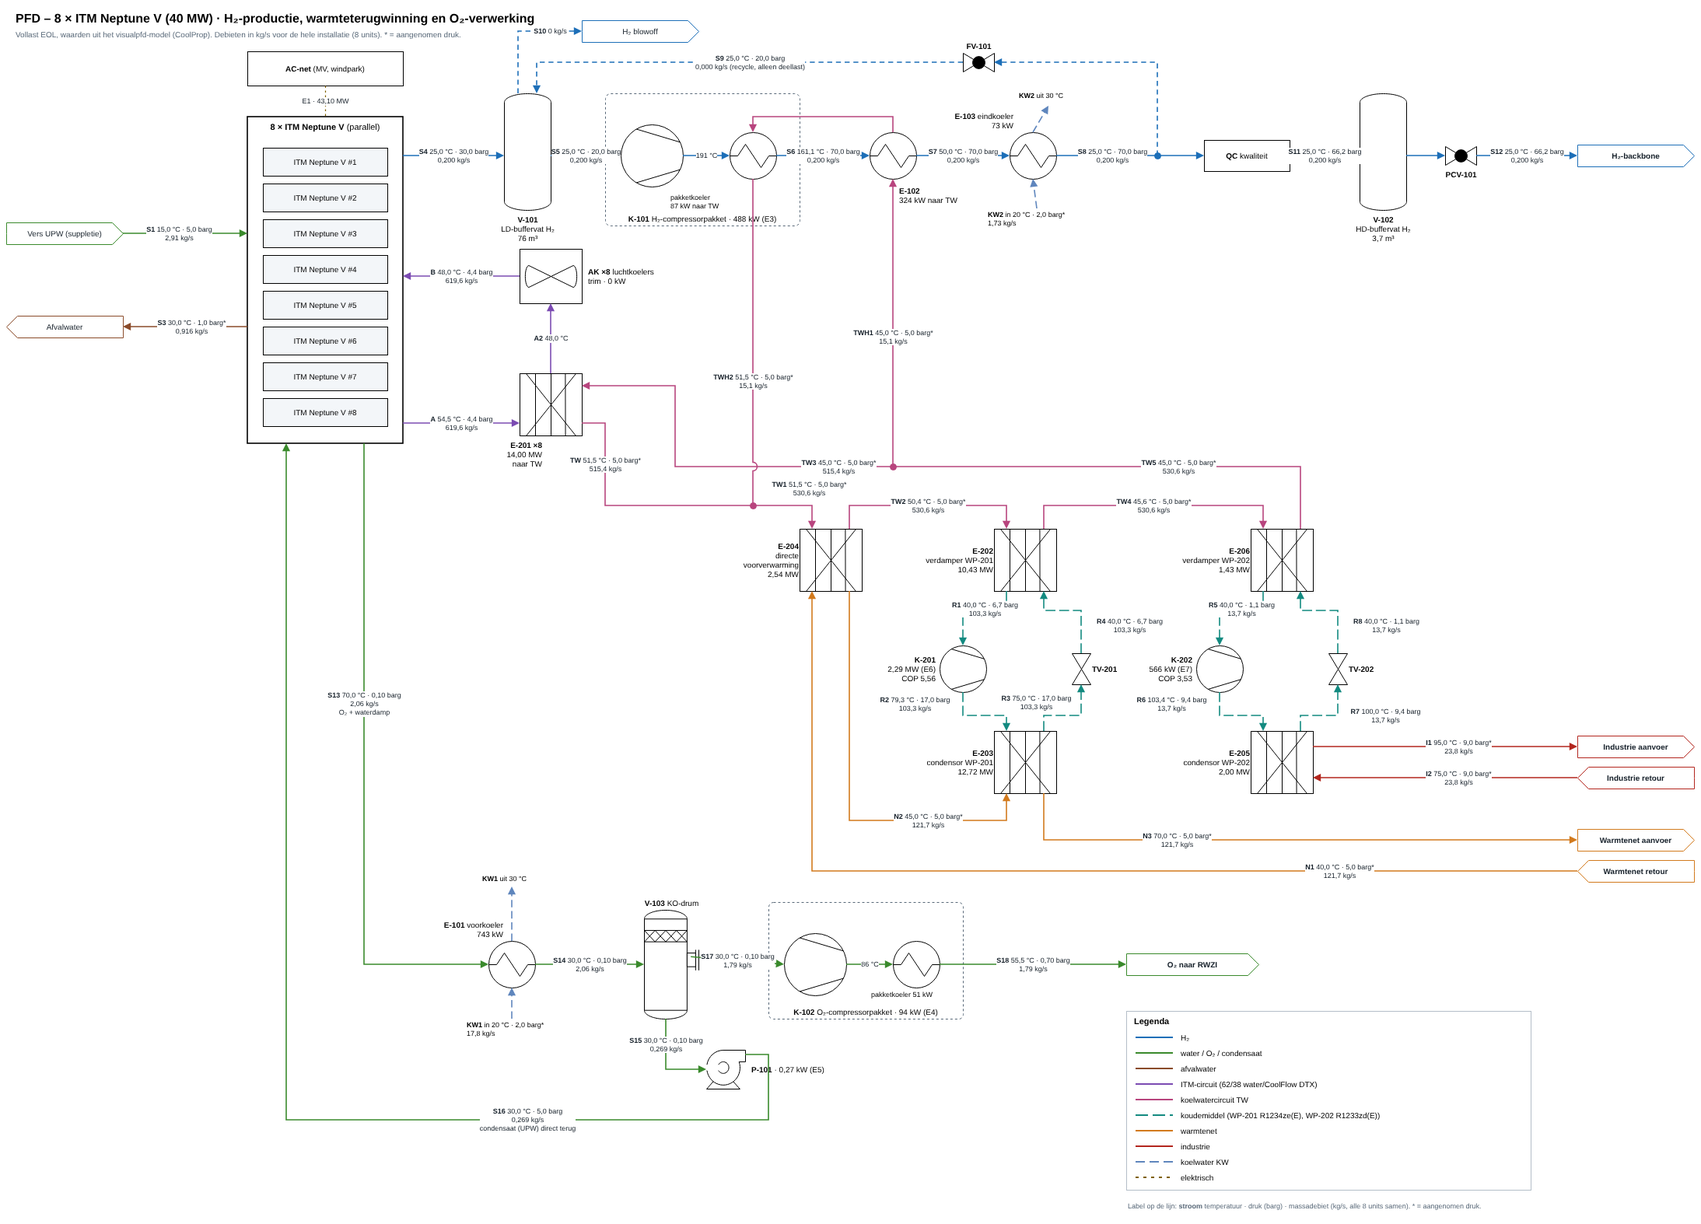
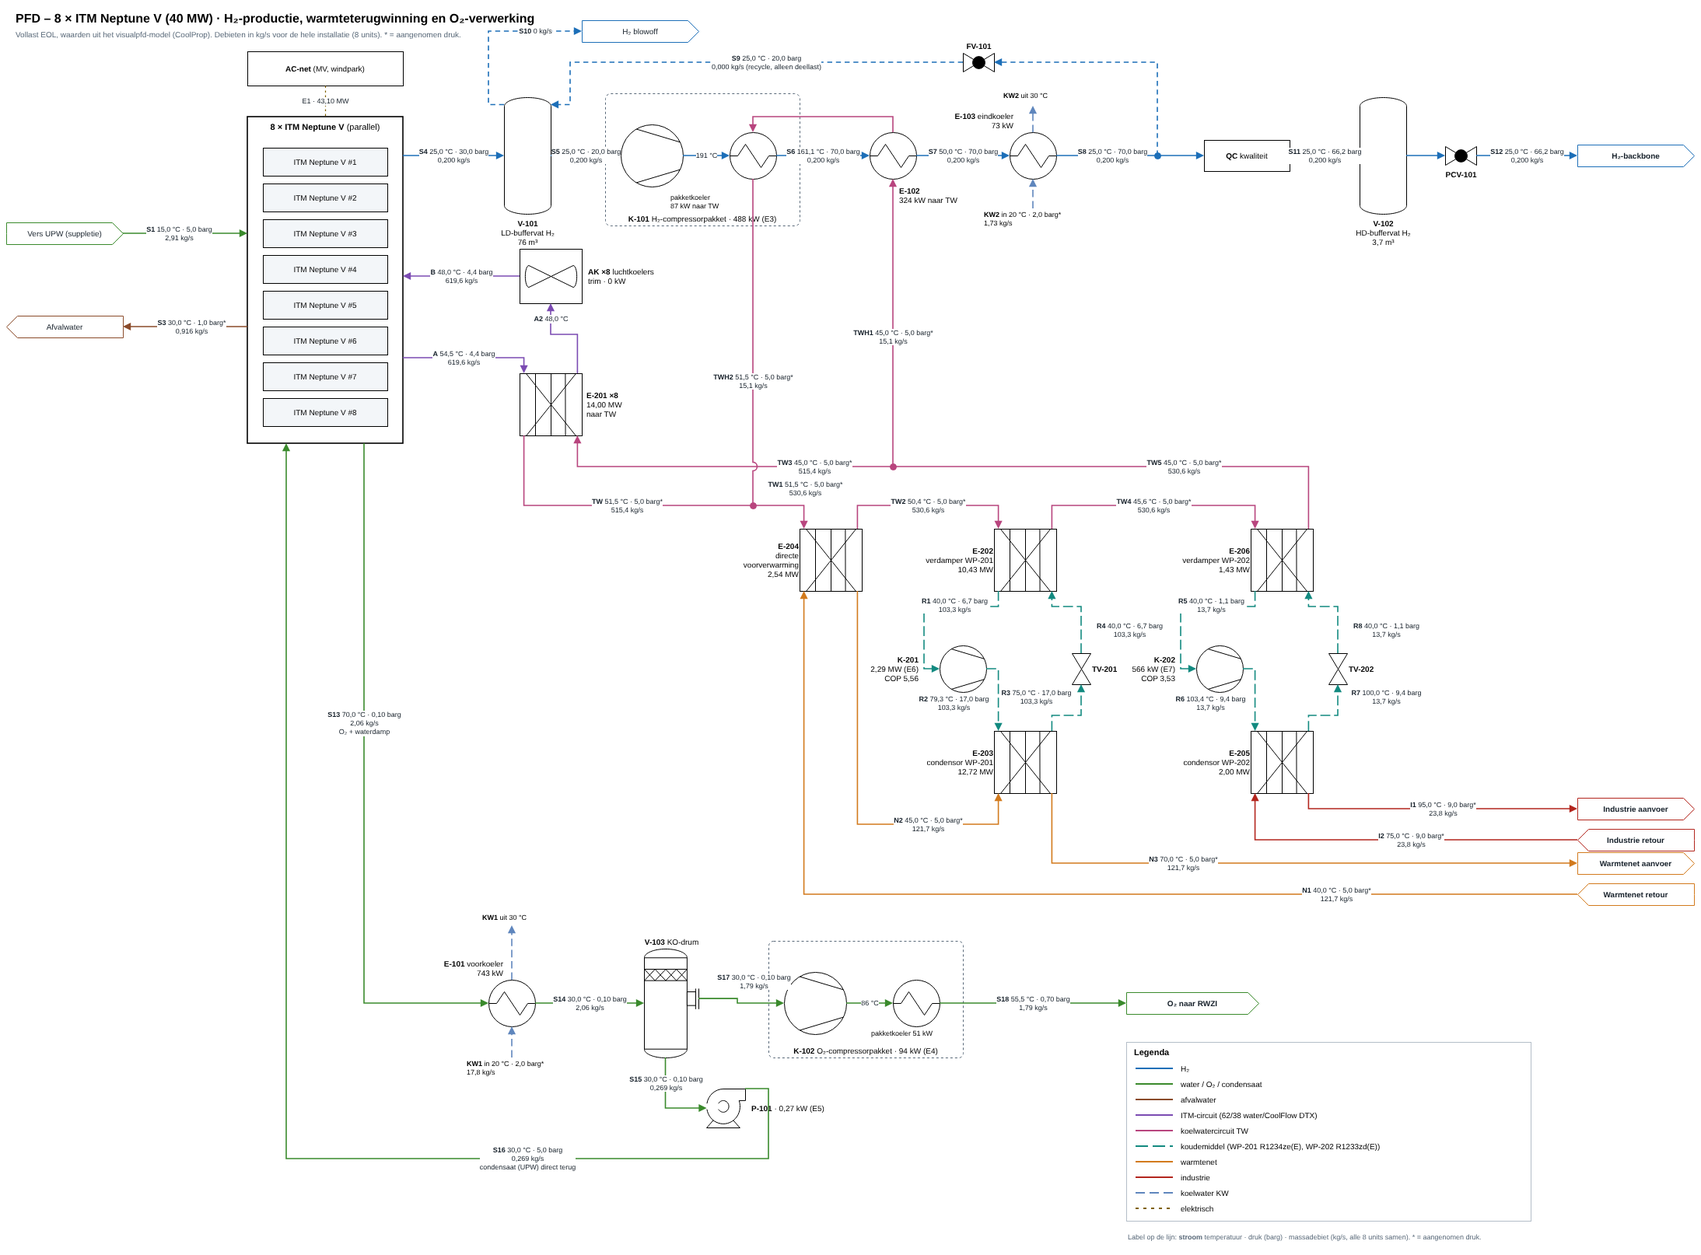
PFD draw.io: leidingen op de standaard connectoren van de iconen, met controle in het script
Claude-Session: https://claude.ai/code/session_01Rgoa6Uc8Lnki27xdVeqUX3

diff --git a/docs/pfd/maak_drawio.py b/docs/pfd/maak_drawio.py
@@ -86,6 +86,7 @@ def esc(s):
 
 def vertex(cid, x, y, w, h, style, value="", parent="1"):
     geo[cid] = (x, y, w, h)
+    STIJL[cid] = style
     cellen.append(f'<mxCell id="{cid}" value="{esc(value)}" style="{style}" vertex="1" parent="{parent}">'
                   f'<mxGeometry x="{x}" y="{y}" width="{w}" height="{h}" as="geometry"/></mxCell>')
     return cid
@@ -132,16 +133,52 @@ def tekst(x, y, w, h, value, extra="align=center;"):
 
 def knoop(cid, x, y, kleur):
     """T-stuk / verzamelpunt (gevulde stip)."""
-    return vertex(cid, x - 4, y - 4, 8, 8, f"ellipse;html=1;fillColor={kleur};strokeColor={kleur};", "")
+    return vertex(cid, x - 4, y - 4, 8, 8, f"ellipse;html=1;fillColor={kleur};strokeColor={kleur};"
+                  "points=[[0.5,0.5,0]];", "")
 
 
 WEST = set()                 # pijlen naar links (direction=west): draw.io draait hun poorten mee
 
 
+# Standaard connectiepunten van de draw.io-iconen (uit de stencils / shape-code van draw.io).
+RECHTHOEK = {(x, y) for x in (0, .25, .5, .75, 1) for y in (0, .25, .5, .75, 1) if x in (0, 1) or y in (0, 1)}
+CONN = {
+    "heat_exchanger_(plate)": {(.07, 0), (.93, 0), (.07, 1), (.93, 1)},
+    "shell_and_tube_heat_exchanger_1": {(.5, 0), (.5, 1), (0, .5), (1, .5), (.145, .145), (.145, .855),
+                                        (.855, .145), (.855, .855)},
+    "compressor,_vacuum_pump": {(0, .5), (1, .5)},
+    "air_cooler": {(.5, 0), (.5, 1), (0, .5), (1, .5), (1, .001), (1, .999), (0, .999), (0, .001)},
+    "centrifugal_pump_1": {(.43, 0), (.43, 1), (.01, .5), (.86, .5), (.125, .125), (0, 1), (1, 0), (.855, 1)},
+    "knock-out_drum": {(.393, 0), (.393, 1), (0, .5), (1, .458), (.775, .058), (.775, .942), (.005, .94),
+                       (.005, .06)},
+    "pressurized_vessel": {(.5, 0), (.5, 1), (0, .5), (1, .5), (.999, .063), (.999, .937), (.001, .937),
+                           (.001, .063)},
+    "valve": {(0, .5), (1, .5)},                     # pid2valves zonder aandrijving: leidingeinden
+    "arrows2.arrow": {(0, .5), (1, .5)},
+}
+STIJL = {}
+
+
+def toegestaan(cid):
+    st = STIJL[cid]
+    if "points=[[" in st:                              # eigen connectiepunten (ITM-blok, T-stukken)
+        lst = st.split("points=")[1].split(";")[0]
+        return {(float(a), float(b)) for a, b, *_ in __import__("json").loads(lst)}
+    for k, v in CONN.items():
+        if k in st:
+            return v
+    return RECHTHOEK
+
+
 def poort(cid, fx, fy):
+    assert (fx, fy) in toegestaan(cid), f"{cid}: ({fx}, {fy}) is geen connector van dit icoon"
     x, y, w, h = geo[cid]
     if cid in WEST:
         fx = 1 - fx
+    if "rotation=90" in STIJL[cid]:                  # 90° rechtsom om het midden
+        cx, cy_ = x + w / 2, y + h / 2
+        dx, dy = (fx - .5) * w, (fy - .5) * h
+        return (cx - dy, cy_ + dx)
     return (x + fx * w, y + fy * h)
 
 
@@ -149,8 +186,8 @@ def edge(src, sp, tgt, tp, pts, kleur, label="", seg=None, pos=0.5, pijlpunt=Tru
          lstyle=""):
     """Leiding van src (poort sp) naar tgt (poort tp) via punten pts. Het label komt op segment seg
     (index in de polyline; standaard het langste segment) op fractie pos van dat segment."""
-    a = poort(src, *sp) if sp is not None else None
-    b = poort(tgt, *tp) if tp is not None else None
+    a = poort(src, *sp)
+    b = poort(tgt, *tp)
     poly = [a] + list(pts) + [b]
     lens = [abs(q[0] - p[0]) + abs(q[1] - p[1]) for p, q in zip(poly, poly[1:])]
     L = sum(lens) or 1
@@ -184,8 +221,9 @@ tekst(30, 34, 1300, 20, f"Vollast EOL, waarden uit het visualpfd-model (CoolProp
       f"installatie ({N} units). * = aangenomen druk.", "align=left;fontSize=10;fontColor=#586878;")
 
 # ------------------------------------------------------------------ ITM-blok
+ITM_P = [[1, 50 / 420], [1, 205 / 420], [1, 310 / 420], [0, 150 / 420], [0, 270 / 420], [0.25, 1], [0.75, 1], [0.5, 0]]
 vertex("itm", 330, 150, 200, 420, "rounded=0;whiteSpace=wrap;html=1;fillColor=#ffffff;verticalAlign=top;fontSize=11;"
-       "strokeWidth=1.6;", "<b>8 × ITM Neptune V</b> (parallel)")
+       f"strokeWidth=1.6;points={ITM_P};".replace(" ", ""), "<b>8 × ITM Neptune V</b> (parallel)")
 for k in range(8):
     vertex(f"itm{k + 1}", 350, 190 + k * 46, 160, 36, "rounded=0;whiteSpace=wrap;html=1;fontSize=10;fillColor=#f3f6f9;",
            f"ITM Neptune V #{k + 1}", parent="1")
@@ -203,9 +241,9 @@ edge("itm", (0, 270 / 420), "t_s3", (1, 0.5), [], C["waste"],
 
 # ------------------------------------------------------------------ H2-lijn (y = 200)
 Y = 200
-shape("v101", "mxgraph.pid.vessels.pressurized_vessel", 660, 120, 60, 150,
+shape("v101", "mxgraph.pid.vessels.pressurized_vessel", 660, Y - 75, 60, 150,
       f"<b>V-101</b><br>LD-buffervat H₂<br>{nl(r['V_V101'], 0)} m³", "labelPosition=center;")
-edge("itm", (1, (Y - 150) / 420), "v101", (0, (Y - 120) / 150), [], C["h2"],
+edge("itm", (1, 50 / 420), "v101", (0, 0.5), [], C["h2"],
      lab("S4", i.T_H2, i.P_H2_ITM, kgs(i.m_H2)))
 
 vertex("pk101", 790, 120, 250, 170, "rounded=1;arcSize=4;whiteSpace=wrap;html=1;dashed=1;fillColor=none;"
@@ -214,7 +252,7 @@ vertex("pk101", 790, 120, 250, 170, "rounded=1;arcSize=4;whiteSpace=wrap;html=1;
 compressor("k101", 810, Y - 40, 80, "")
 buis("pkk101", 950, Y - 30, "")
 tekst(872, 244, 100, 30, f"pakketkoeler<br>{MW(r['Q_pak_K101'] * N)} naar TW", "fontSize=9;")
-edge("v101", (1, (Y - 120) / 150), "k101", (0, 0.5), [], C["h2"], lab("S5", i.T_H2, i.P_V101_min, kgs(r["m_S5"])))
+edge("v101", (1, 0.5), "k101", (0, 0.5), [], C["h2"], lab("S5", i.T_H2, i.P_V101_min, kgs(r["m_S5"])))
 edge("k101", (1, 0.5), "pkk101", (0, 0.5), [], C["h2"], f"{nl(r['T_uit_K101'], 0)} °C")
 
 buis("e102", 1130, Y - 30, "")
@@ -227,12 +265,12 @@ edge("e103", (1, 0.5), "j_s9", (0.5, 0.5), [], C["h2"], lab("S8", i.T_E103_uit, 
      pijlpunt=False, pos=0.55)
 vertex("qc", 1560, Y - 20, 110, 40, "rounded=0;whiteSpace=wrap;html=1;fontSize=10;", "<b>QC</b> kwaliteit")
 edge("j_s9", (0.5, 0.5), "qc", (0, 0.5), [], C["h2"])
-shape("v102", "mxgraph.pid.vessels.pressurized_vessel", 1760, 120, 60, 150,
+shape("v102", "mxgraph.pid.vessels.pressurized_vessel", 1760, Y - 75, 60, 150,
       f"<b>V-102</b><br>HD-buffervat H₂<br>{nl(r['V_V102'], 1)} m³")
-edge("qc", (1, 0.5), "v102", (0, (Y - 120) / 150), [], C["h2"],
+edge("qc", (1, 0.5), "v102", (0, 0.5), [], C["h2"],
      lab("S11", i.T_E103_uit, i.P_backbone, kgs(r["m_backbone"])))
 klep("pcv101", 1870, Y - 12, "<b>PCV-101</b>", soort="globe")
-edge("v102", (1, (Y - 120) / 150), "pcv101", (0, 0.5), [], C["h2"])
+edge("v102", (1, 0.5), "pcv101", (0, 0.5), [], C["h2"])
 pijl("t_s12", 2040, Y - 14, 150, "<b>H₂-backbone</b>", C["h2"])
 edge("pcv101", (1, 0.5), "t_s12", (0, 0.5), [], C["h2"], lab("S12", i.T_E103_uit, i.P_backbone, kgs(r["m_backbone"])))
 
@@ -240,16 +278,17 @@ edge("pcv101", (1, 0.5), "t_s12", (0, 0.5), [], C["h2"], lab("S12", i.T_E103_uit
 klep("fv101", 1250, 68, "<b>FV-101</b>", soort="globe", extra=LBL_T)
 edge("j_s9", (0.5, 0.5), "fv101", (1, 0.5), [(1500, 80)], C["h2"], pijlpunt=True,
      stijl="dashed=1;dashPattern=4 3;")
-edge("fv101", (0, 0.5), "v101", (0.7, 0), [(702, 80)], C["h2"],
+edge("fv101", (0, 0.5), "v101", (0.999, 0.063), [(745, 80), (745, Y - 75 + 0.063 * 150)], C["h2"],
      lab("S9", i.T_E103_uit, i.P_V101_min, kgs(r["m_S9"])) + " (recycle, alleen deellast)", seg=0,
      stijl="dashed=1;dashPattern=4 3;")
 pijl("t_s10", 760, 26, 150, "H₂ blowoff", C["h2"])
-edge("v101", (0.3, 0), "t_s10", (0, 0.5), [(678, 40)], C["h2"], "<b>S10</b> 0 kg/s", seg=1,
+edge("v101", (0.001, 0.063), "t_s10", (0, 0.5), [(640, Y - 75 + 0.063 * 150), (640, 40)], C["h2"],
+     "<b>S10</b> 0 kg/s", seg=2,
      stijl="dashed=1;dashPattern=4 3;")
 
 # koelwater E-103
-tekst(1280, 268, 130, 26, f"<b>KW2</b> in 20 °C · {nl(P_KW, 1)} barg*<br>{kgs(r['m_kw_E103'])}", "fontSize=9;")
-tekst(1320, 110, 80, 26, "<b>KW2</b> uit 30 °C", "fontSize=9;")
+tekst(1275, 268, 130, 26, f"<b>KW2</b> in 20 °C · {nl(P_KW, 1)} barg*<br>{kgs(r['m_kw_E103'])}", "fontSize=9;")
+tekst(1300, 110, 80, 26, "<b>KW2</b> uit 30 °C", "fontSize=9;")
 edge(list(geo)[-2], (0.5, 0), "e103", (0.5, 1), [], C["kw"], stijl=KW)
 edge("e103", (0.5, 0), list(geo)[-1], (0.5, 1), [], C["kw"], stijl=KW)
 
@@ -257,12 +296,13 @@ edge("e103", (0.5, 0), list(geo)[-1], (0.5, 1), [], C["kw"], stijl=KW)
 YE = 480                     # bovenkant E-201
 shape("ak", "mxgraph.pid.misc.air_cooler", 680, 320, 80, 70,
       f"<b>AK ×8</b> luchtkoelers<br>trim · {MW(max(0.0, r['Q_AK']))}", LBL_R + "spacingLeft=6;")
-plaat("e201", 680, YE, f"<b>E-201 ×8</b><br>{MW(r['Q_E201'])}<br>naar TW",
-      extra="labelPosition=left;verticalLabelPosition=bottom;align=right;verticalAlign=top;spacingRight=-30;")
-edge("itm", (1, (YE + 64 - 150) / 420), "e201", (0, 0.8), [], C["kc"],
-     lab("A", i.T_kc_uit, i.P_kc, kgs(r["m_kc_unit"])))
-edge("e201", (0.5, 0), "ak", (0.5, 1), [], C["kc"], f"<b>A2</b> {nl(r['T_kc_naE201'], 1)} °C", lx=0, ly=0)
-edge("ak", (0, 0.5), "itm", (1, (355 - 150) / 420), [], C["kc"],
+plaat("e201", 680, YE, f"<b>E-201 ×8</b><br>{MW(r['Q_E201'])}<br>naar TW", extra=LBL_R + "spacingLeft=4;")
+PL, PR = 0.07 * 80, 0.93 * 80          # x-positie van de hoekpoorten van een platenwisselaar (80 breed)
+edge("itm", (1, 310 / 420), "e201", (0.07, 0), [(680 + PL, 460)], C["kc"],
+     lab("A", i.T_kc_uit, i.P_kc, kgs(r["m_kc_unit"])), seg=0)
+edge("e201", (0.93, 0), "ak", (0.5, 1), [(680 + PR, 430), (720, 430)], C["kc"],
+     f"<b>A2</b> {nl(r['T_kc_naE201'], 1)} °C", seg=2)
+edge("ak", (0, 0.5), "itm", (1, 205 / 420), [], C["kc"],
      lab("B", i.T_kc_retour, i.P_kc, kgs(r["m_kc_unit"])))
 
 # ------------------------------------------------------------------ warmteterugwinning (midden)
@@ -276,17 +316,17 @@ plaat("e206", X206, YH, f"<b>E-206</b><br>verdamper WP-202<br>{MW(r['Q_L2'])}")
 knoop("j_twa", 980, Y_AAN, C["tw"])   # samenkomst aanvoer (E-201's + H2-koelers)
 knoop("j_twr", 1160, Y_RET, C["tw"])  # aftakking retour naar H2-koelers
 # E-201 → aanvoer
-edge("e201", (1, 0.8), "j_twa", (0.5, 0.5), [(790, YE + 64), (790, Y_AAN)], C["tw"],
-     lab("TW", r["T_tw_a"], P_TW, kgs(tw_tot - tw_h2, False), ster=True), seg=1, pijlpunt=False)
-edge("j_twa", (0.5, 0.5), "e204", (0.2, 0), [(X204 + 16, Y_AAN)], C["tw"],
+edge("e201", (0.07, 1), "j_twa", (0.5, 0.5), [(680 + PL, Y_AAN)], C["tw"],
+     lab("TW", r["T_tw_a"], P_TW, kgs(tw_tot - tw_h2, False), ster=True), seg=1, pos=0.45, pijlpunt=False)
+edge("j_twa", (0.5, 0.5), "e204", (0.07, 0), [(X204 + PL, Y_AAN)], C["tw"],
      lab("TW1", r["T_tw_a"], P_TW, kgs(tw_tot, False), ster=True), seg=0, pos=0.5, lx=34, ly=-22)
-edge("e204", (0.8, 0), "e202", (0.2, 0), [(X204 + 64, Y_AAN), (X202 + 16, Y_AAN)], C["tw"],
+edge("e204", (0.93, 0), "e202", (0.07, 0), [(X204 + PR, Y_AAN), (X202 + PL, Y_AAN)], C["tw"],
      lab("TW2", r["T_tw_tussen"], P_TW, kgs(tw_tot, False), ster=True), seg=1)
-edge("e202", (0.8, 0), "e206", (0.2, 0), [(X202 + 64, Y_AAN), (X206 + 16, Y_AAN)], C["tw"],
+edge("e202", (0.93, 0), "e206", (0.07, 0), [(X202 + PR, Y_AAN), (X206 + PL, Y_AAN)], C["tw"],
      lab("TW4", r["T_tw_naE202"], P_TW, kgs(tw_tot, False), ster=True), seg=1)
-edge("e206", (0.8, 0), "j_twr", (0.5, 0.5), [(X206 + 64, Y_RET)], C["tw"],
+edge("e206", (0.93, 0), "j_twr", (0.5, 0.5), [(X206 + PR, Y_RET)], C["tw"],
      lab("TW5", r["T_tw_r"], P_TW, kgs(tw_tot, False), ster=True), seg=1, pos=0.3, pijlpunt=False)
-edge("j_twr", (0.5, 0.5), "e201", (1, 0.2), [(880, Y_RET), (880, YE + 16)], C["tw"],
+edge("j_twr", (0.5, 0.5), "e201", (0.93, 1), [(680 + PR, Y_RET)], C["tw"],
      lab("TW3", r["T_tw_r"], P_TW, kgs(tw_tot - tw_h2, False), ster=True), seg=0, pos=0.25)
 # aftakking naar de H2-koelers: retour → E-102 → pakketkoeler K-101 → aanvoer
 edge("j_twr", (0.5, 0.5), "e102", (0.5, 1), [], C["tw"],
@@ -299,57 +339,57 @@ edge("pkk101", (0.5, 1), "j_twa", (0.5, 0.5), [], C["tw"],
 YC, YK = 940, 830            # bovenkant condensors, bovenkant compressoren
 plaat("e203", X202, YC, f"<b>E-203</b><br>condensor WP-201<br>{MW(r['Q_H'])}")
 compressor("k201", X202 - 70, YK, 60, f"<b>K-201</b><br>{MW(r['W_K201'])} (E6)<br>COP {nl(r['COP'], 2)}",
-           extra=LBL_L + "spacingRight=4;")
+           extra=LBL_L + "spacingRight=26;")
 klep("tv201", X202 + 92, YK + 18, "", extra="rotation=90;")
 tekst(X202 + 124, YK + 20, 50, 20, "<b>TV-201</b>", "align=left;")
 f1 = f"{nl(m_ref1, 1)} kg/s"
-edge("e202", (0.2, 1), "k201", (0.5, 0), [(X202 + 16, YH + 105), (X202 - 40, YH + 105)], C["ref"],
-     lab("R1", cy["T_evap"], cy["P_evap_bar"] - 1.01325, f1), seg=1, stijl=REF, lx=0, ly=-2)
-edge("k201", (0.5, 1), "e203", (0.2, 0), [(X202 - 40, YC - 20), (X202 + 16, YC - 20)], C["ref"],
-     lab("R2", cy["T_pers"], cy["P_cond_bar"] - 1.01325, f1), seg=0, stijl=REF, lx=-62)
-edge("e203", (0.8, 0), "tv201", (1, 0.5), [(X202 + 64, YC - 20), (X202 + 112, YC - 20)], C["ref"],
+edge("e202", (0.07, 1), "k201", (0, 0.5), [(X202 + PL, YH + 100), (X202 - 90, YH + 100), (X202 - 90, YK + 30)],
+     C["ref"], lab("R1", cy["T_evap"], cy["P_evap_bar"] - 1.01325, f1), seg=1, pos=0.6, stijl=REF, ly=-2)
+edge("k201", (1, 0.5), "e203", (0.07, 0), [(X202 + PL, YK + 30)], C["ref"],
+     lab("R2", cy["T_pers"], cy["P_cond_bar"] - 1.01325, f1), seg=1, pos=0.55, stijl=REF, lx=-58)
+edge("e203", (0.93, 0), "tv201", (1, 0.5), [(X202 + PR, YC - 20), (X202 + 112, YC - 20)], C["ref"],
      lab("R3", cy["T_cond"], cy["P_cond_bar"] - 1.01325, f1), seg=2, pos=0.6, stijl=REF, lx=-58)
-edge("tv201", (0, 0.5), "e202", (0.8, 1), [(X202 + 112, YH + 105), (X202 + 64, YH + 105)], C["ref"],
+edge("tv201", (0, 0.5), "e202", (0.93, 1), [(X202 + 112, YH + 100), (X202 + PR, YH + 100)], C["ref"],
      lab("R4", cy["T_evap"], cy["P_evap_bar"] - 1.01325, f1), seg=0, stijl=REF, lx=62)
 
 # WP-202 (industrie)
 plaat("e205", X206, YC, f"<b>E-205</b><br>condensor WP-202<br>{MW(r['Q_E205'])}")
 compressor("k202", X206 - 70, YK, 60, f"<b>K-202</b><br>{MW(r['W_K202'])} (E7)<br>COP {nl(r['COP2'], 2)}",
-           extra=LBL_L + "spacingRight=4;")
+           extra=LBL_L + "spacingRight=26;")
 klep("tv202", X206 + 92, YK + 18, "", extra="rotation=90;")
 tekst(X206 + 124, YK + 20, 50, 20, "<b>TV-202</b>", "align=left;")
 f2 = f"{nl(m_ref2, 1)} kg/s"
-edge("e206", (0.2, 1), "k202", (0.5, 0), [(X206 + 16, YH + 105), (X206 - 40, YH + 105)], C["ref"],
-     lab("R5", cy2["T_evap"], cy2["P_evap_bar"] - 1.01325, f2), seg=1, stijl=REF, ly=-2)
-edge("k202", (0.5, 1), "e205", (0.2, 0), [(X206 - 40, YC - 20), (X206 + 16, YC - 20)], C["ref"],
-     lab("R6", cy2["T_pers"], cy2["P_cond_bar"] - 1.01325, f2), seg=0, stijl=REF, lx=-62)
-edge("e205", (0.8, 0), "tv202", (1, 0.5), [(X206 + 64, YC - 20), (X206 + 112, YC - 20)], C["ref"],
-     lab("R7", cy2["T_cond"], cy2["P_cond_bar"] - 1.01325, f2), seg=2, pos=0.3, stijl=REF, lx=62)
-edge("tv202", (0, 0.5), "e206", (0.8, 1), [(X206 + 112, YH + 105), (X206 + 64, YH + 105)], C["ref"],
+edge("e206", (0.07, 1), "k202", (0, 0.5), [(X206 + PL, YH + 100), (X206 - 90, YH + 100), (X206 - 90, YK + 30)],
+     C["ref"], lab("R5", cy2["T_evap"], cy2["P_evap_bar"] - 1.01325, f2), seg=1, pos=0.6, stijl=REF, ly=-2)
+edge("k202", (1, 0.5), "e205", (0.07, 0), [(X206 + PL, YK + 30)], C["ref"],
+     lab("R6", cy2["T_pers"], cy2["P_cond_bar"] - 1.01325, f2), seg=1, pos=0.55, stijl=REF, lx=-58)
+edge("e205", (0.93, 0), "tv202", (1, 0.5), [(X206 + PR, YC - 20), (X206 + 112, YC - 20)], C["ref"],
+     lab("R7", cy2["T_cond"], cy2["P_cond_bar"] - 1.01325, f2), seg=2, pos=0.6, stijl=REF, lx=62)
+edge("tv202", (0, 0.5), "e206", (0.93, 1), [(X206 + 112, YH + 100), (X206 + PR, YH + 100)], C["ref"],
      lab("R8", cy2["T_evap"], cy2["P_evap_bar"] - 1.01325, f2), seg=0, stijl=REF, lx=62)
 
 # warmtenet: retour → E-204 → E-203 → aanvoer
 XT = 2040                    # rechterrand: aansluitingen
-Y_NA, Y_NR = 1080, 1120
+Y_NA, Y_NR = 1110, 1150
 pijl("t_na", XT, Y_NA - 14, 150, "<b>Warmtenet aanvoer</b>", C["net"])
 pijl("t_nr", XT, Y_NR - 14, 150, "<b>Warmtenet retour</b>", C["net"], links=True)
-edge("t_nr", (0, 0.5), "e204", (0.2, 1), [(X204 + 16, Y_NR)], C["net"],
+edge("t_nr", (0, 0.5), "e204", (0.07, 1), [(X204 + PL, Y_NR)], C["net"],
      lab("N1", i.T_net_retour, P_NET, kgs(net, False), ster=True), seg=0, pos=0.3)
-edge("e204", (0.8, 1), "e203", (0.2, 1), [(X204 + 64, YC + 115), (X202 + 16, YC + 115)], C["net"],
+edge("e204", (0.93, 1), "e203", (0.07, 1), [(X204 + PR, YC + 120), (X202 + PL, YC + 120)], C["net"],
      lab("N2", r["T_E204"], P_NET, kgs(net, False), ster=True), seg=1)
-edge("e203", (0.8, 1), "t_na", (0, 0.5), [(X202 + 64, Y_NA)], C["net"],
+edge("e203", (0.93, 1), "t_na", (0, 0.5), [(X202 + PR, Y_NA)], C["net"],
      lab("N3", r["T_aanvoer"], P_NET, kgs(net, False), ster=True), seg=1, pos=0.25)
 
 # industrie via E-205
-pijl("t_ia", XT, YC + 6, 150, "<b>Industrie aanvoer</b>", C["ind"])
-pijl("t_ir", XT, YC + 46, 150, "<b>Industrie retour</b>", C["ind"], links=True)
-edge("e205", (1, 0.25), "t_ia", (0, 0.5), [], C["ind"],
-     lab("I1", i.T_ind_aanvoer, P_IND, kgs(ind, False), ster=True), pos=0.55)
-edge("t_ir", (0, 0.5), "e205", (1, 0.75), [], C["ind"],
-     lab("I2", i.T_ind_retour, P_IND, kgs(ind, False), ster=True), pos=0.45, ly=0)
+pijl("t_ia", XT, YC + 86, 150, "<b>Industrie aanvoer</b>", C["ind"])
+pijl("t_ir", XT, YC + 126, 150, "<b>Industrie retour</b>", C["ind"], links=True)
+edge("e205", (0.93, 1), "t_ia", (0, 0.5), [(X206 + PR, YC + 100)], C["ind"],
+     lab("I1", i.T_ind_aanvoer, P_IND, kgs(ind, False), ster=True), seg=1, pos=0.5)
+edge("t_ir", (0, 0.5), "e205", (0.07, 1), [(X206 + PL, YC + 140)], C["ind"],
+     lab("I2", i.T_ind_retour, P_IND, kgs(ind, False), ster=True), seg=0, pos=0.5)
 
 # ------------------------------------------------------------------ O2-lijn (onderaan)
-YO = 1240
+YO = 1290
 buis("e101", 640, YO - 30, f"<b>E-101</b> voorkoeler<br>{MW(-r['Q_E101'] * N)}",
      extra="labelPosition=left;verticalLabelPosition=top;align=right;verticalAlign=bottom;spacingRight=-20;")
 edge("itm", (0.75, 1), "e101", (0, 0.5), [(480, YO)], C["o2"],
@@ -363,7 +403,9 @@ vertex("pk102", 1000, YO - 80, 250, 150, "rounded=1;arcSize=4;whiteSpace=wrap;ht
 compressor("k102", 1020, YO - 40, 80, "")
 buis("pkk102", 1160, YO - 30, "")
 tekst(1130, YO + 28, 120, 22, f"pakketkoeler {MW(r['Q_pak_K102'] * N)}", "fontSize=9;")
-edge("v103", (0.86, 0.43), "k102", (0, 0.5), [], C["o2"], lab("S17", i.T_KO, i.P_O2_uit, kgs(r["m_gas"])))
+YS17 = YO - 70 + 0.458 * 140              # gasuitlaat (nozzle) van de KO-drum
+edge("v103", (1, 0.458), "k102", (0, 0.5), [(960, YS17), (960, YO)], C["o2"], seg=0, lstyle="",
+     label= lab("S17", i.T_KO, i.P_O2_uit, kgs(r["m_gas"])), ly=-22, lx=46)
 edge("k102", (1, 0.5), "pkk102", (0, 0.5), [], C["o2"], f"{nl(r['T_uit_K102'], 0)} °C")
 pijl("t_s18", 1460, YO - 14, 170, "<b>O₂ naar RWZI</b>", C["o2"])
 edge("pkk102", (1, 0.5), "t_s18", (0, 0.5), [], C["o2"], lab("S18", r["T_S18"], i.P_RWZI, kgs(r["m_gas"])))
@@ -371,9 +413,9 @@ edge("pkk102", (1, 0.5), "t_s18", (0, 0.5), [], C["o2"], lab("S18", r["T_S18"], 
 # condensaat: V-103 → P-101 → ITM
 shape("p101", "mxgraph.pid.pumps.centrifugal_pump_1", 920, YO + 110, 50, 50,
       f"<b>P-101</b> · {nl(r['W_P101'] * N, 2)} kW (E5)", LBL_R + "spacingLeft=6;")
-edge("v103", (0.4, 1), "p101", (0, 0.5), [(868, YO + 135)], C["o2"],
+edge("v103", (0.393, 1), "p101", (0.01, 0.5), [(840 + 0.393 * 70, YO + 135)], C["o2"],
      lab("S15", i.T_KO, i.P_O2_uit, kgs(r["m_cond"])), seg=0, pos=0.5, lx=0)
-edge("p101", (1, 0.12), "itm", (0.25, 1), [(1000, YO + 116), (1000, YO + 200), (380, YO + 200)], C["o2"],
+edge("p101", (1, 0), "itm", (0.25, 1), [(1000, YO + 110), (1000, YO + 200), (380, YO + 200)], C["o2"],
      lab("S16", i.T_KO, i.P_ITM_voed, kgs(r["m_cond"])) + "<br>condensaat (UPW) direct terug", seg=2, pos=0.5)
 
 # koelwater E-101
@@ -389,7 +431,7 @@ leg = [("H₂", C["h2"], ""), ("water / O₂ / condensaat", C["o2"], ""), ("afva
        ("ITM-circuit (62/38 water/CoolFlow DTX)", C["kc"], ""), ("koelwatercircuit TW", C["tw"], ""),
        ("koudemiddel (WP-201 R1234ze(E), WP-202 R1233zd(E))", C["ref"], "8 3"), ("warmtenet", C["net"], ""),
        ("industrie", C["ind"], ""), ("koelwater KW", C["kw"], "6 3"), ("elektrisch", C["el"], "2 3")]
-LX, LY = 1460, 1300
+LX, LY = 1460, 1340
 vertex("leg", LX, LY, 520, 30 + 20 * len(leg), "rounded=0;whiteSpace=wrap;html=1;fillColor=#ffffff;"
        "verticalAlign=top;align=left;spacingLeft=8;fontSize=11;strokeColor=#b4bec8;", "<b>Legenda</b>")
 for k, (naam, kl, dp) in enumerate(leg):

diff --git a/README.md b/README.md
@@ -99,5 +99,5 @@ Beide bevatten een bijlage met verdedigingsvragen. Opnieuw maken (LaTeX met `lat
 ## PFD in draw.io
 `docs/pfd/PFD.drawio` (openen met draw.io / diagrams.net, voorbeeld: `docs/pfd/PFD.png`) heeft dezelfde indeling als de app:
 H₂-lijn boven, warmteterugwinning in het midden, O₂-lijn onder. Alleen standaard draw.io-iconen (P&ID-bibliotheek), alle
-leidingen vast aan de apparaten, en op elke lijn de temperatuur, druk en het massadebiet (kg/s, 8 units samen) in plaats van
+leidingen vast aan de standaard connectoren van de iconen (het script controleert dat), en op elke lijn de temperatuur, druk en het massadebiet (kg/s, 8 units samen) in plaats van
 stroomvlaggen. Blad 2 is de stroomtabel. Opnieuw maken na een modelwijziging: `python docs/pfd/maak_drawio.py`.
